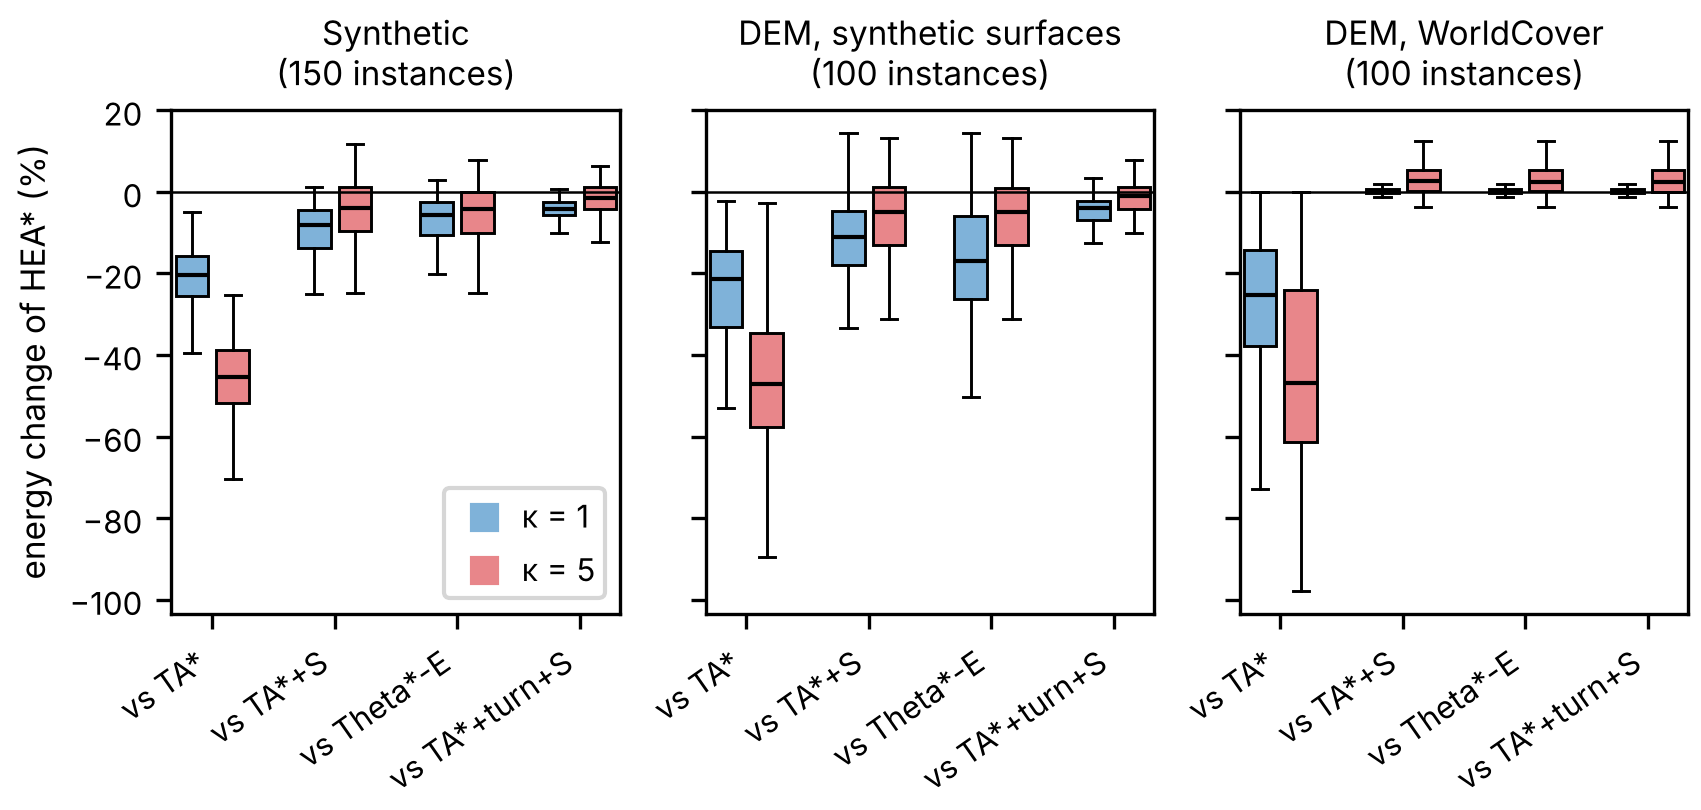
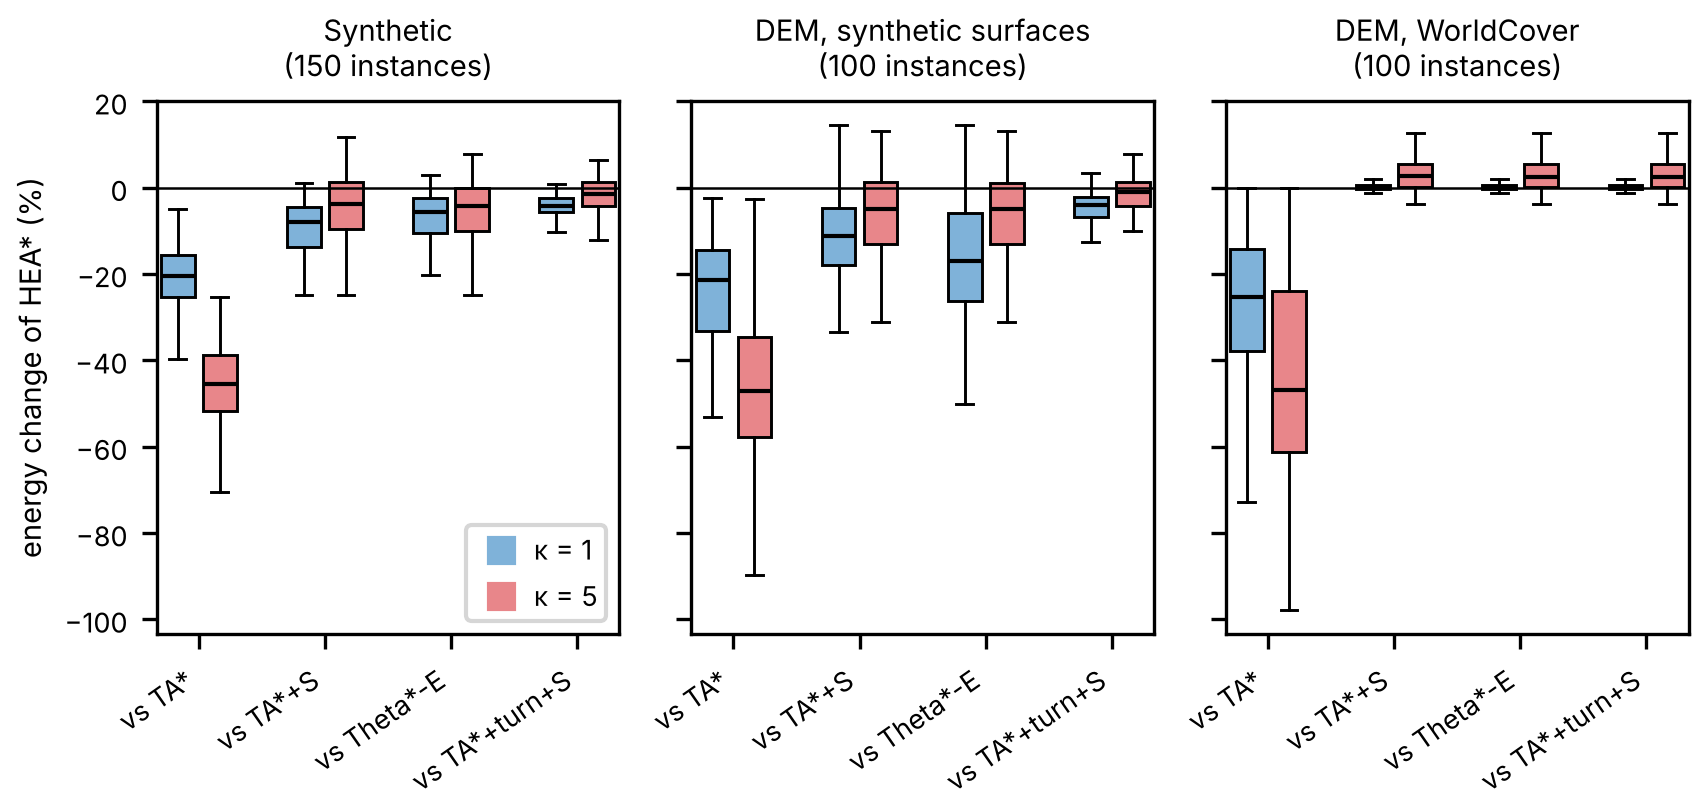
Fig. 6: smaller fonts (6.5-7 pt)
Claude-Session: https://claude.ai/code/session_012ykMFqBufQToCQU8JKGr98

diff --git a/experiments/analyze_main.py b/experiments/analyze_main.py
@@ -236,12 +236,12 @@ def fig6(E, figs):
             ax.plot([], [], "s", color=("#7fb2d9", "#e8868a")[j], label=f"κ = {kappa:g}")
         ax.axhline(0, color="k", lw=0.6)
         ax.set_xticks(np.arange(len(bases)) * 3 + 0.5)
-        ax.set_xticklabels([f"vs {b}" for b in bases], rotation=35, ha="right", fontsize=7.5)
-        ax.tick_params(axis="y", labelsize=7.5)
+        ax.set_xticklabels([f"vs {b}" for b in bases], rotation=35, ha="right", fontsize=6.5)
+        ax.tick_params(axis="y", labelsize=6.5)
         ax.set_title(f"{label.replace('DEM, ', 'DEM, ').replace('WorldCover surfaces', 'WorldCover')}\n({n} instances)",
-                     fontsize=8)
-    axes[0].set_ylabel("energy change of HEA* (%)", fontsize=8)
-    axes[0].legend(loc="lower right", fontsize=7.5, handletextpad=0.2, borderpad=0.3)
+                     fontsize=7)
+    axes[0].set_ylabel("energy change of HEA* (%)", fontsize=7)
+    axes[0].legend(loc="lower right", fontsize=6.5, handletextpad=0.2, borderpad=0.3)
     fig.tight_layout(pad=0.3, w_pad=0.5)
     fig.savefig(os.path.join(figs, "fig6_energy_change.png"), dpi=300)
     print(f"saved {figs}/fig6_energy_change.png")
